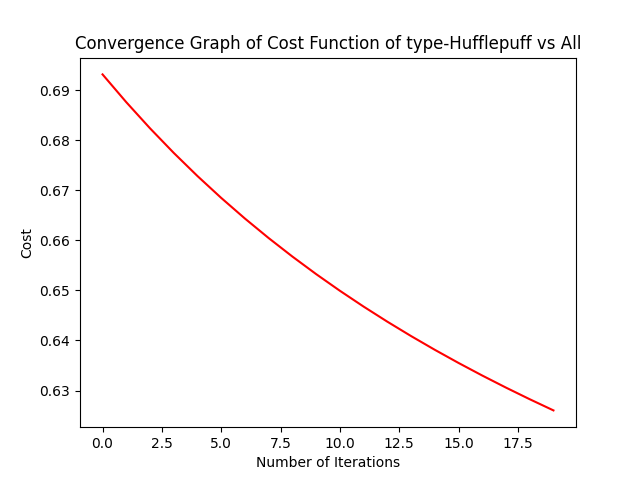
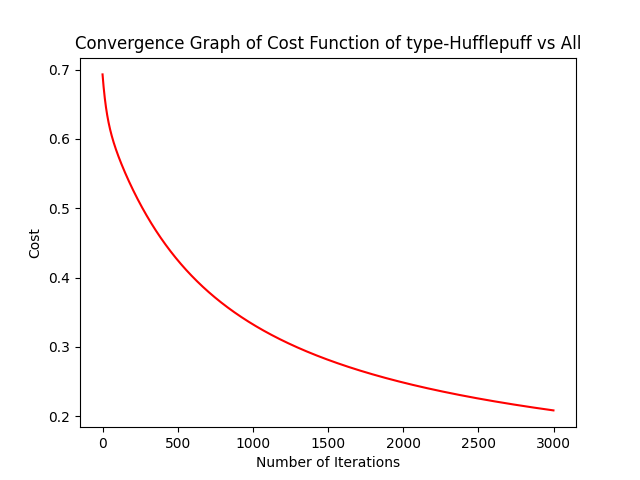
Optimize accuracy

diff --git a/srcs/logreg_train.py b/srcs/logreg_train.py
@@ -5,22 +5,14 @@ import pandas as pd
 from matplotlib import pyplot as plt
 
 
-def _plot_cost(costh):  # This function plot the Cost function value
-    print('coucou =', costh)
+def plot_cost(costh):  # This function plot the Cost function value
     for cost, c in costh:
-        # print(cost)
         plt.plot(range(len(cost)), cost, 'r')
         plt.title("Convergence Graph of Cost Function of type-" + str(c) + " vs All")
         plt.xlabel("Number of Iterations")
         plt.ylabel("Cost")
         plt.savefig('../plots/' + c + '_cost')
         plt.clf()
-
-
-def coef_determination(y, predictions):
-    for prediction, c in predictions:
-        u = ((y - prediction) ** 2).sum()
-        v = ((y - y.mean()) ** 2).sum()
 
 
 class LogisticRegression(object):
@@ -49,12 +41,7 @@ class LogisticRegression(object):
 
     # Cost function
     def cost_function(self, y, h, m):
-        epsilon = 1e-5
-        class1 = -y * np.log(h + epsilon)
-
-        class2 = (1 - y) * np.log(1 - h + epsilon)
-        cost = class1 - class2
-        return np.sum(cost) / m
+        return (1 / m) * (np.sum(-y.T.dot(np.log(h)) - (1 - y).T.dot(np.log(1 - h))))
 
     # Gradient descent
     def gradient_descent(self, X, y, h, m):
@@ -66,13 +53,10 @@ class LogisticRegression(object):
         X = self.normalize(X)
         X = np.insert(X, 0, 1, axis=1)
         m = len(y)
-        print('y vaut = ', y.shape)
-        for i in np.unique(y):
 
+        for i in np.unique(y):
             y_onevsall = np.where(y == i, 1, 0)
             theta = np.zeros((X.shape[1], 1))
-            print(theta.shape)
-            print(X.shape)
             cost_hist = []
 
             for j in range(self.iterations):
@@ -86,7 +70,7 @@ class LogisticRegression(object):
             self.theta.append((theta, i))
             self.cost_history.append((cost_hist, i))
 
-        _plot_cost(self.cost_history)
+        plot_cost(self.cost_history)
         return self
 
     def predict(self, X):  # this function calls the max predict function to classify the individul feauter
@@ -96,20 +80,12 @@ class LogisticRegression(object):
         return X_predicted
 
     def score(self, X, y):  # This function compares the predictd label with the actual label to find the model perform
-        # sigmoid_v = np.vectorize(self.sigmoid)
         predicted = self.predict(X)
         true = 0
         for i in range(len(predicted)):
             if predicted[i] == y[i]:
                 true += 1
-        # tmp = np.rint(sigmoid_v(X.dot(self.theta[0])))
-        # ok = 0
-        # for i in range(len(self.Y)):
-        #     if tmp[i] == self.Y[i]:
-        #         ok += 1
         return true * 100 / len(predicted)
-        # score = sum(self.predict(X) == y) / len(y)
-        # return score
 
 
 if __name__ == '__main__':
@@ -118,47 +94,17 @@ if __name__ == '__main__':
     data = data[data['Herbology'].notna()]
     data = data[data['Defense Against the Dark Arts'].notna()]
 
-    print(len(data))
-    for i in range(0, 15):
+    for i in range(0, 20):
         data = data.drop(data['Herbology'].idxmax())
         data = data.drop(data['Herbology'].idxmin())
         data = data.drop(data['Defense Against the Dark Arts'].idxmax())
         data = data.drop(data['Defense Against the Dark Arts'].idxmin())
-    print(len(data))
 
     y_data = data['Hogwarts House'].values
     y_data = y_data.reshape(y_data.shape[0], 1)
-    # x_data = np.array(data['Astronomy'])
-    # x_data = data[['Astronomy', 'Herbology']]
 
     data = data.iloc[:, 8:10]
 
-    # data = data[data.notna()]
-    # data = data[data['Herbology'].notna()]
     x_data = data.values
-
-    print(data.sort_values(by=['Defense Against the Dark Arts']))
-
-    # q_low = df["col"].quantile(0.01)
-    # q_hi  = df["col"].quantile(0.99)
-
-    # df_filtered = df[(df["col"] < q_hi) & (df["col"] > q_low)]
-    print(x_data)
-    # for i in range(len(x_data)):
-    #     if x_data[i][1] == np.nan:
-    #         print('fdp')
-    logi = LogisticRegression(20, 0.1).logistic_regression(x_data, y_data)
-
-    # _plot_cost(logi.cost_history)
-    # plt.show()
-    # print(logi.theta)
-    print(logi.predict(x_data))
-    # y_onevsall = np.where(y_data == 'Gryffindor', 1, 0)
-    print(logi.score(x_data, y_data))
-    # print(len(logi.theta), logi.theta)
-    # print(dataset.head())
-    print(x_data)
-    print(x_data.shape)
-    # history = LogisticRegression.cost_history
-    # scatter.draw_scatter(pd.read_csv('../datasets/dataset_train.csv'), 'Herbology', 'Astronomy')
-    # score = coef_determination(y_data, x_data.dot(theta_final))
+    logi = LogisticRegression(3000, 0.05).logistic_regression(x_data, y_data)
+    print('Score :', round(logi.score(x_data, y_data), 2))
